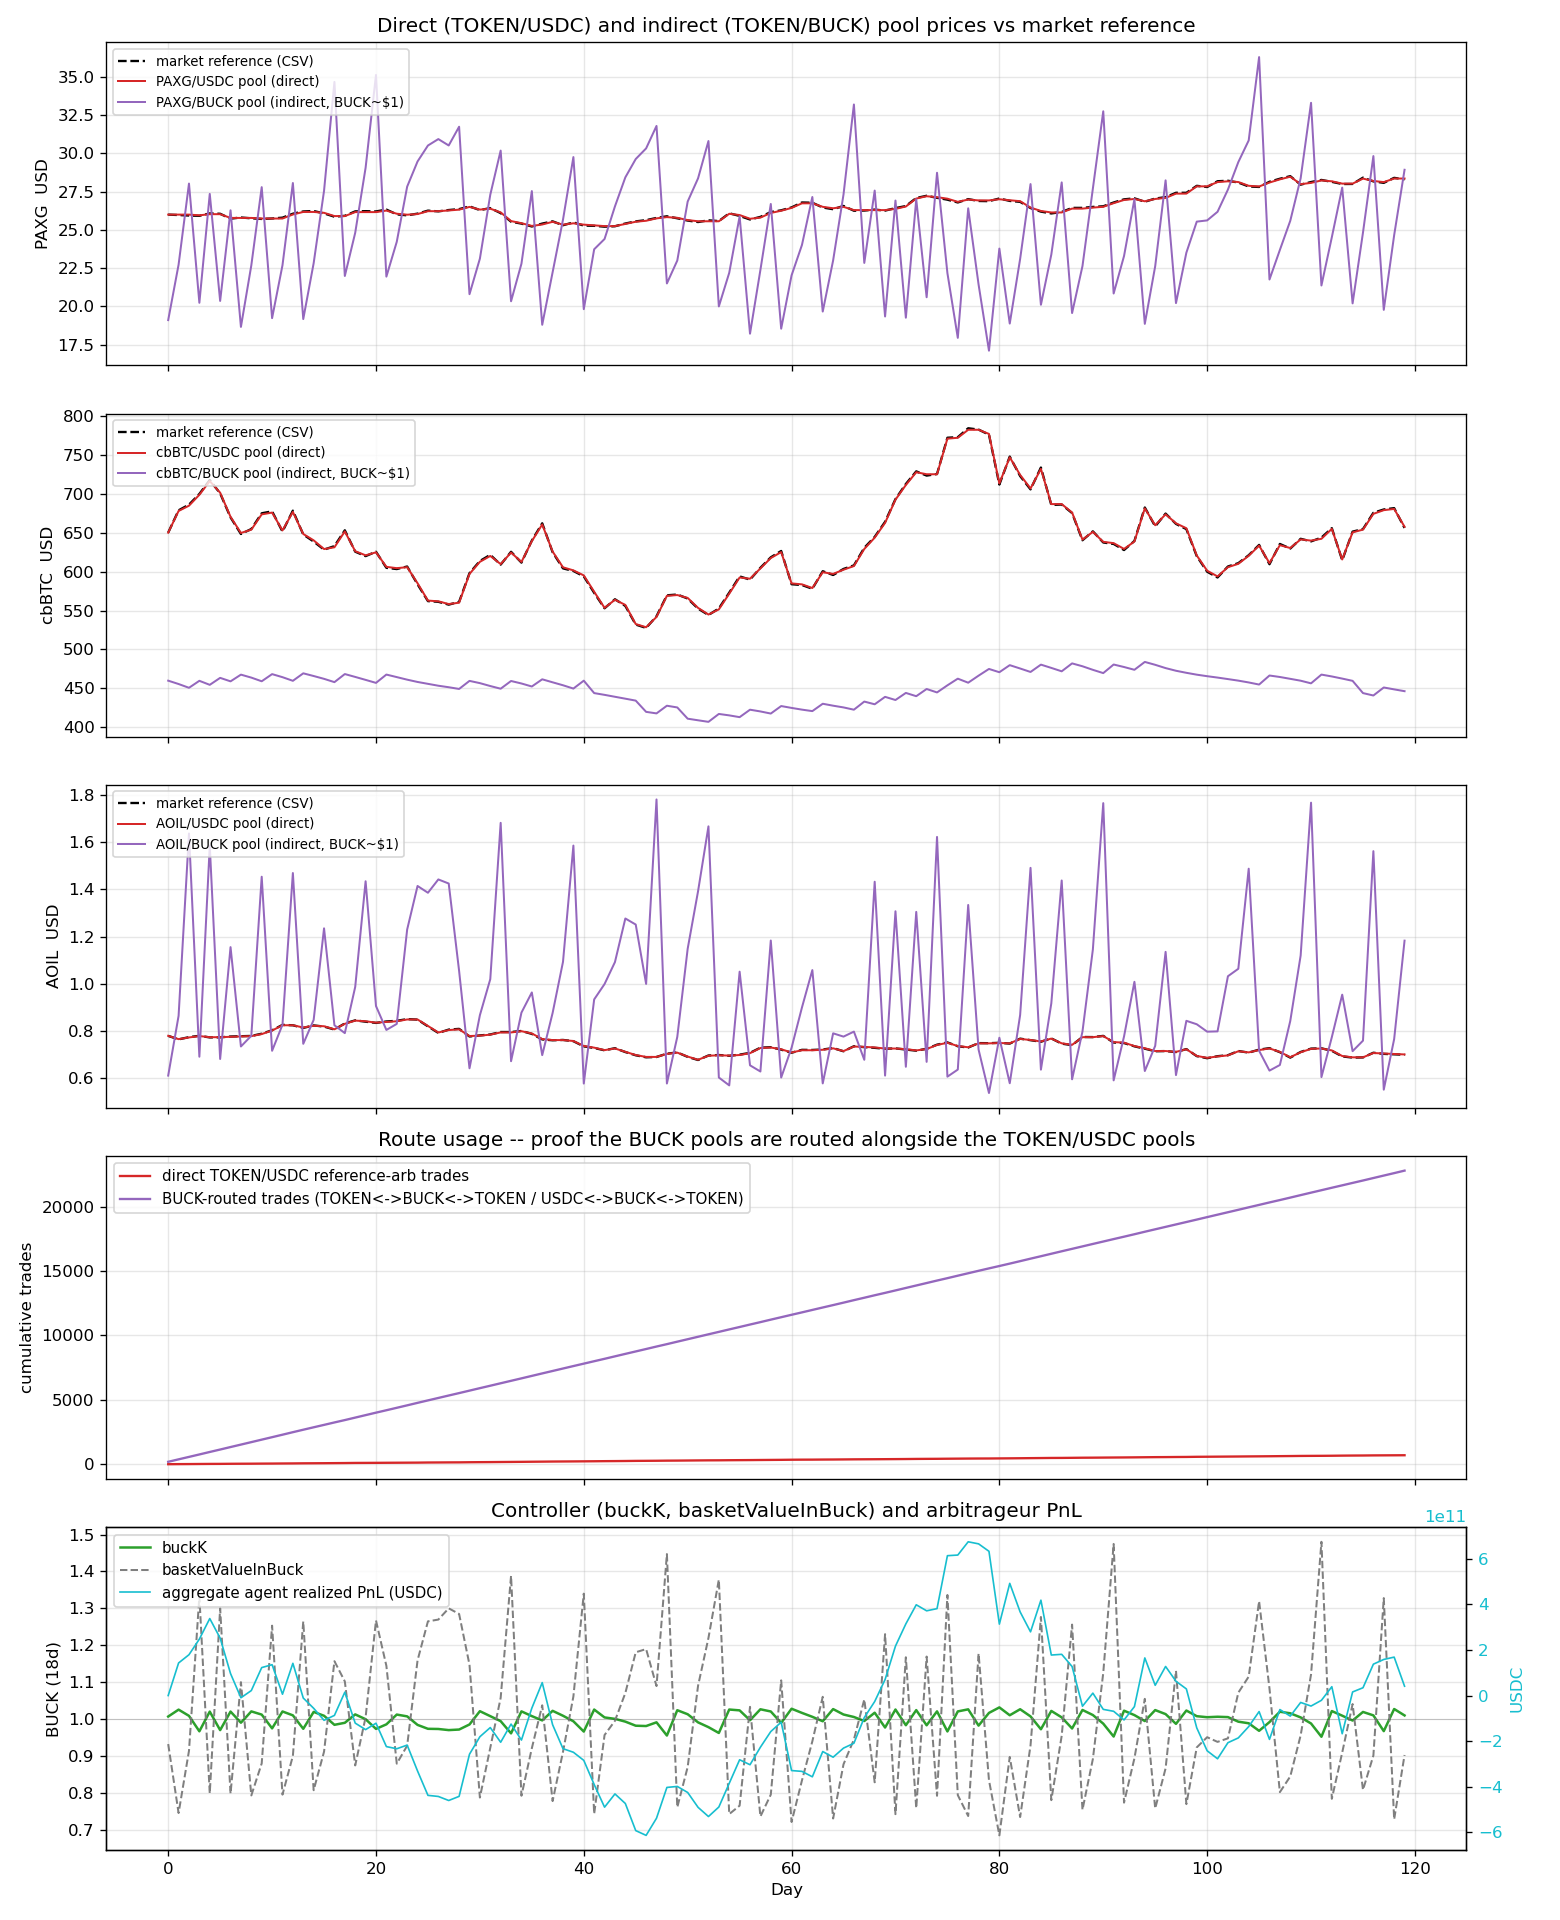
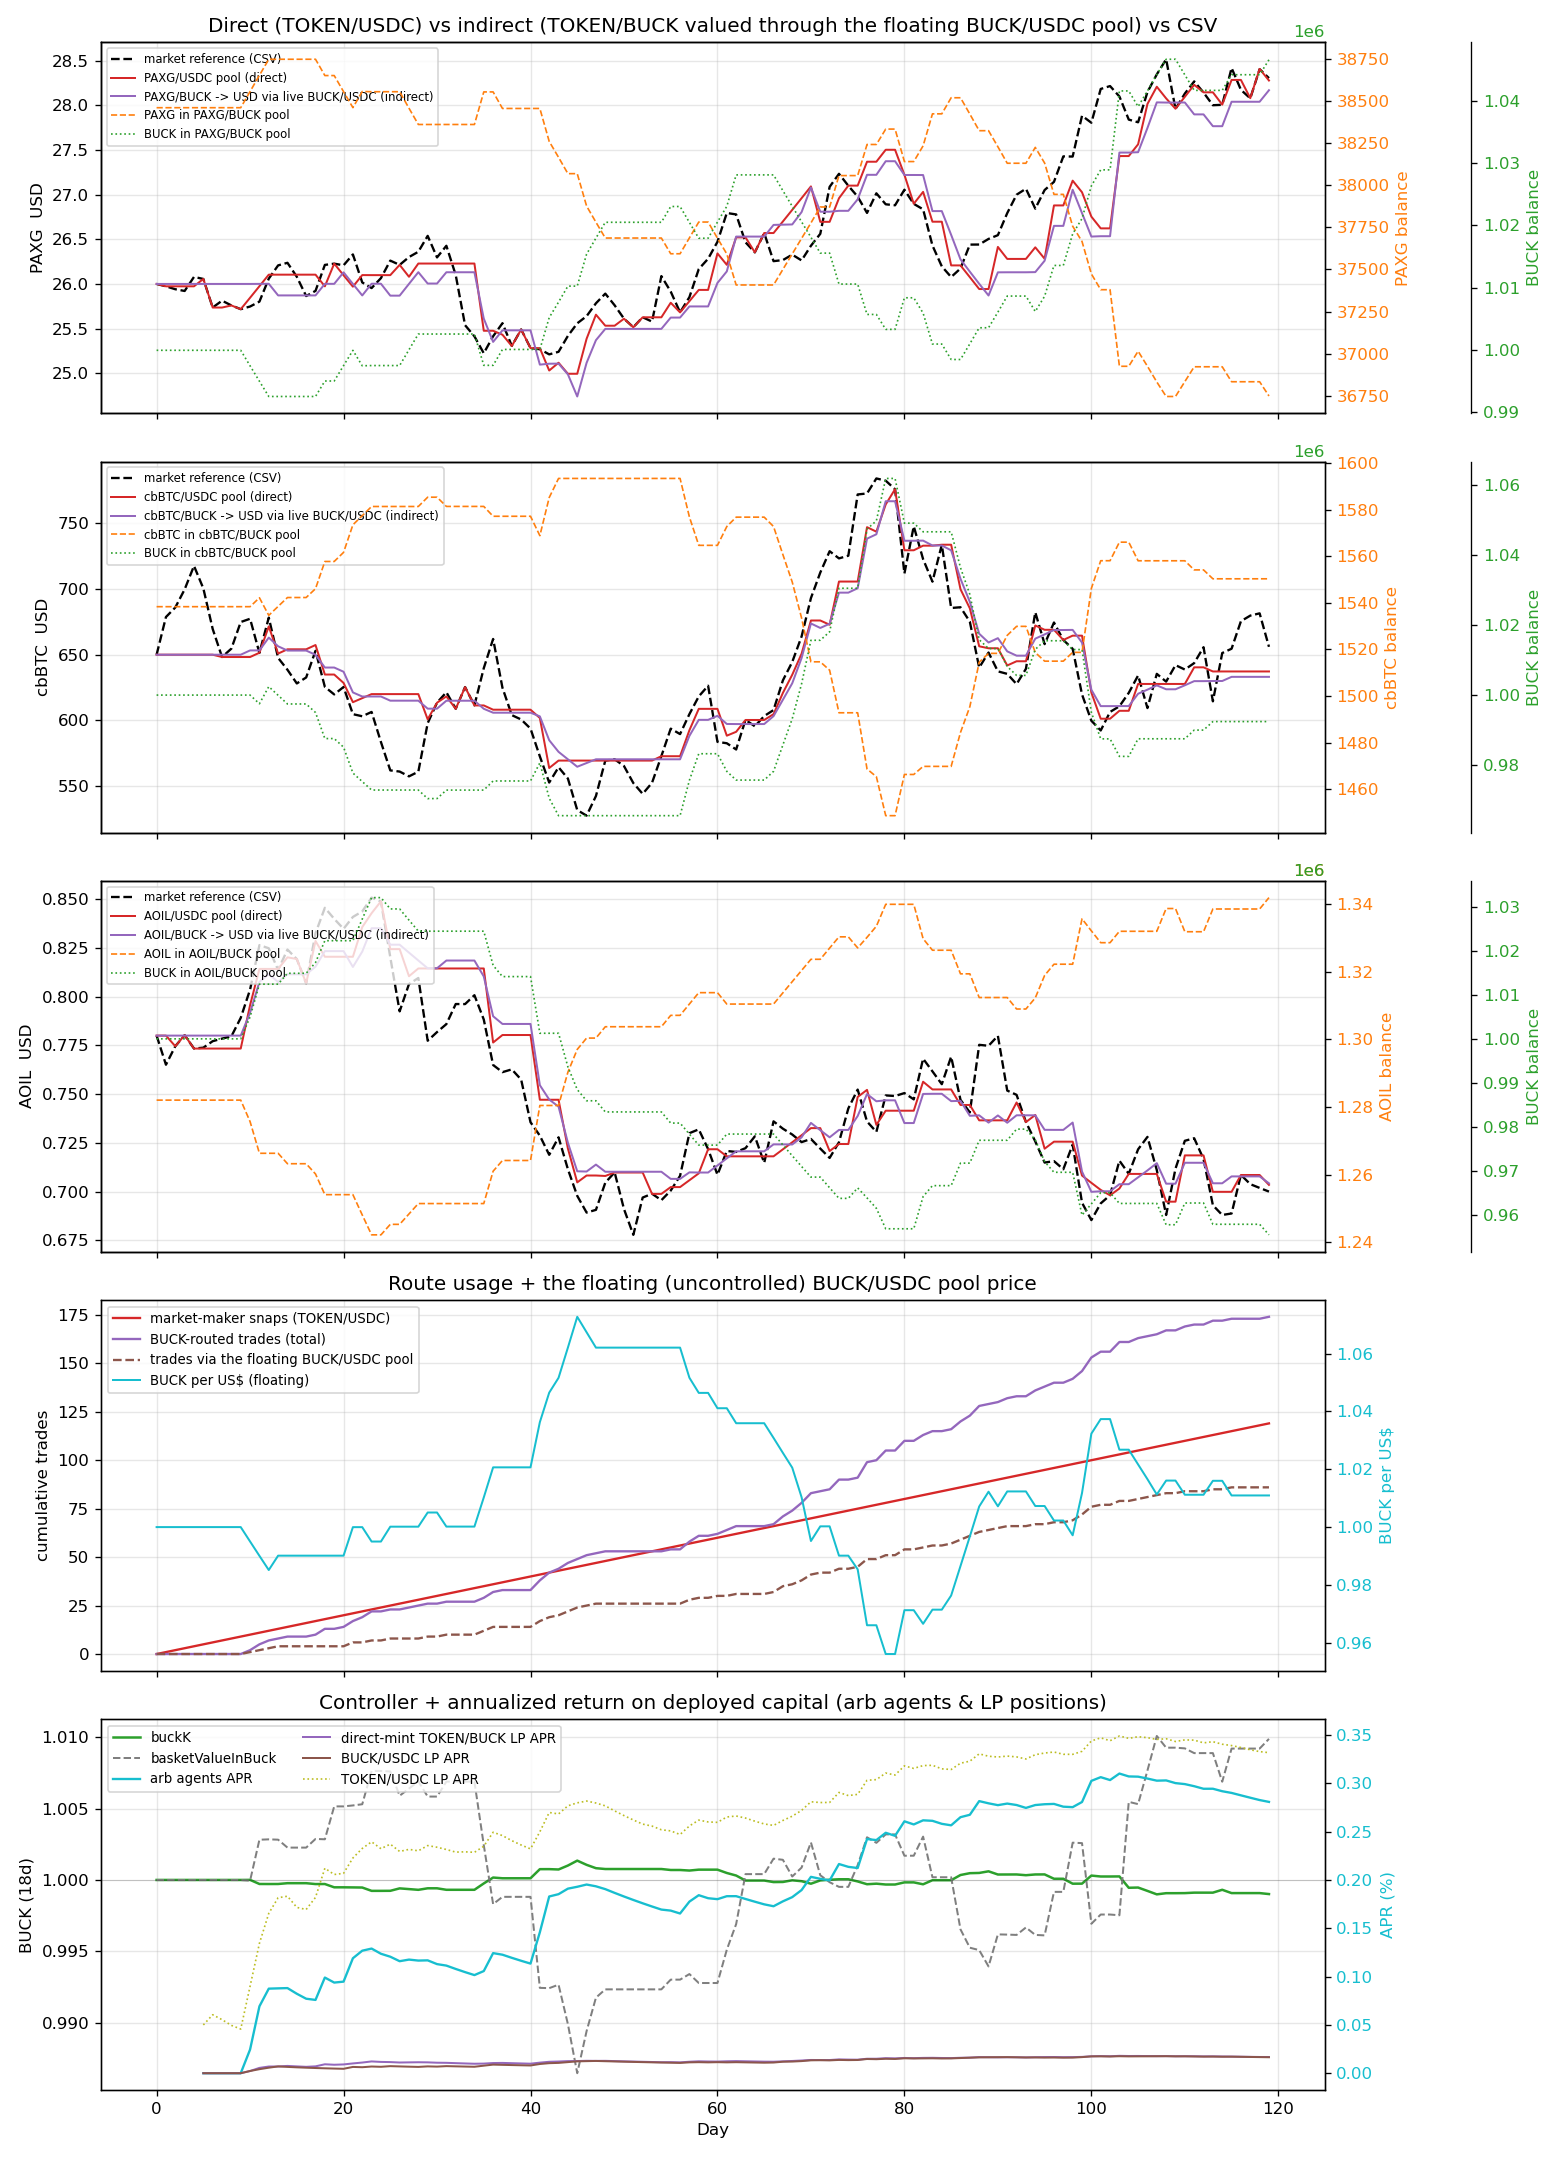
Reduce the TOKEN/BUCK pool sizes to increase fees.

diff --git a/test/stabilizer-routing-op47/test_routing_sim_plot.py b/test/stabilizer-routing-op47/test_routing_sim_plot.py
@@ -51,13 +51,14 @@ def test_routing_sim_plot():
 
     d = json.loads(DATA.read_text())
     names = d["tokens"]
+    dec = d.get("decimals", [18, 8, 18])
     fr = d["frames"]
     days = [f["day"] for f in fr]
 
     def col(key, t):
         return [f[key][t] for f in fr]
 
-    fig, axes = plt.subplots(5, 1, figsize=(13, 16), sharex=True)
+    fig, axes = plt.subplots(5, 1, figsize=(13, 18), sharex=True)
     colors = ["tab:orange", "tab:blue", "tab:green"]
 
     # buckUsd = USDC-micro per 1 BUCK from the *live* floating BUCK/USDC
@@ -83,11 +84,36 @@ def test_routing_sim_plot():
         ax.plot(days, sb, color="tab:purple", linewidth=1.2,
                 label=f"{names[t]}/BUCK -> USD via live BUCK/USDC (indirect)")
         ax.set_ylabel(f"{names[t]}  USD")
-        ax.legend(loc="upper left", fontsize=8)
         ax.grid(True, alpha=0.3)
         if t == 0:
             ax.set_title("Direct (TOKEN/USDC) vs indirect (TOKEN/BUCK valued "
                          "through the floating BUCK/USDC pool) vs CSV")
+
+        # ---- right axes: TOKEN/BUCK pool balances -------------------- #
+        bal_tok = [f["poolBal"][t][0] / (10 ** dec[t]) for f in fr]
+        bal_buck = [f["poolBal"][t][1] / E6 for f in fr]
+
+        ax2 = ax.twinx()
+        l_tok = ax2.plot(days, bal_tok, color="tab:orange", linewidth=1.0,
+                         linestyle="--",
+                         label=f"{names[t]} in {names[t]}/BUCK pool")
+        ax2.set_ylabel(f"{names[t]} balance", color="tab:orange")
+        ax2.tick_params(axis="y", labelcolor="tab:orange")
+
+        ax3 = ax.twinx()
+        ax3.spines.right.set_position(("axes", 1.12))
+        l_buck = ax3.plot(days, bal_buck, color="tab:green", linewidth=1.0,
+                          linestyle=":",
+                          label=f"BUCK in {names[t]}/BUCK pool")
+        ax3.set_ylabel("BUCK balance", color="tab:green")
+        ax3.tick_params(axis="y", labelcolor="tab:green")
+
+        # Combine legends from all three axes.
+        lines1, labels1 = ax.get_legend_handles_labels()
+        lines2, labels2 = ax2.get_legend_handles_labels()
+        lines3, labels3 = ax3.get_legend_handles_labels()
+        ax.legend(lines1 + lines2 + lines3, labels1 + labels2 + labels3,
+                  loc="upper left", fontsize=7)
 
     # ---- Panel 4: cumulative route usage + floating BUCK price ------- #
     ax = axes[3]

diff --git a/alberta_buck/sim/snapshot.py b/alberta_buck/sim/snapshot.py
@@ -129,6 +129,11 @@ class Snapshotter:
         if self._lp_cap is None:                       # freeze capital basis
             self._lp_cap = {g: lg[g][1] for g in lg}
         lp = {g: [lg[g][0], self._lp_cap[g]] for g in lg}
+        # Raw token + BUCK balances in each TOKEN/BUCK pool.
+        pool_bal = []
+        for i, tc in enumerate(d.tokens):
+            pool_bal.append([_bal(tc, d.pool_buck[i]),
+                             _bal(d.buck, d.pool_buck[i])])
         self.frames.append({
             "invested": init_val,                      # arb capital (USDC,d0)
             "lp": lp,                                  # group: [feeUsd, capUsd]
@@ -144,10 +149,12 @@ class Snapshotter:
             "ubTrades": ctr.get("ubTrades", 0),
             "buckUsd": buck_usd,
             "aggPnl": self.agg_value(agents, day) - init_val,
+            "poolBal": pool_bal,
         })
 
     def write(self, path=None) -> Path:
         p = Path(path) if path else DEFAULT_OUT
         p.parent.mkdir(parents=True, exist_ok=True)
-        p.write_text(json.dumps({"tokens": self.tokens, "frames": self.frames}))
+        p.write_text(json.dumps({"tokens": self.tokens, "decimals": self.d.dec,
+                                 "frames": self.frames}))
         return p

diff --git a/alberta_buck/sim/deploy.py b/alberta_buck/sim/deploy.py
@@ -30,7 +30,8 @@ FEE_BUCK = 500
 TICK_SPACING = {3000: 60, 500: 10}
 # Common BUCK reserve every TOKEN/BUCK basket pool is seeded to, so no
 # single token's pool depth dominates the shared routing.
-TARGET_BUCK = 10 ** 14
+#TARGET_BUCK = 10 ** 14
+TARGET_BUCK = 10 ** 12  # Bucks are 6-digit fixed, so 1,000,000 x 1e6 = 10**12
 
 
 @dataclass
